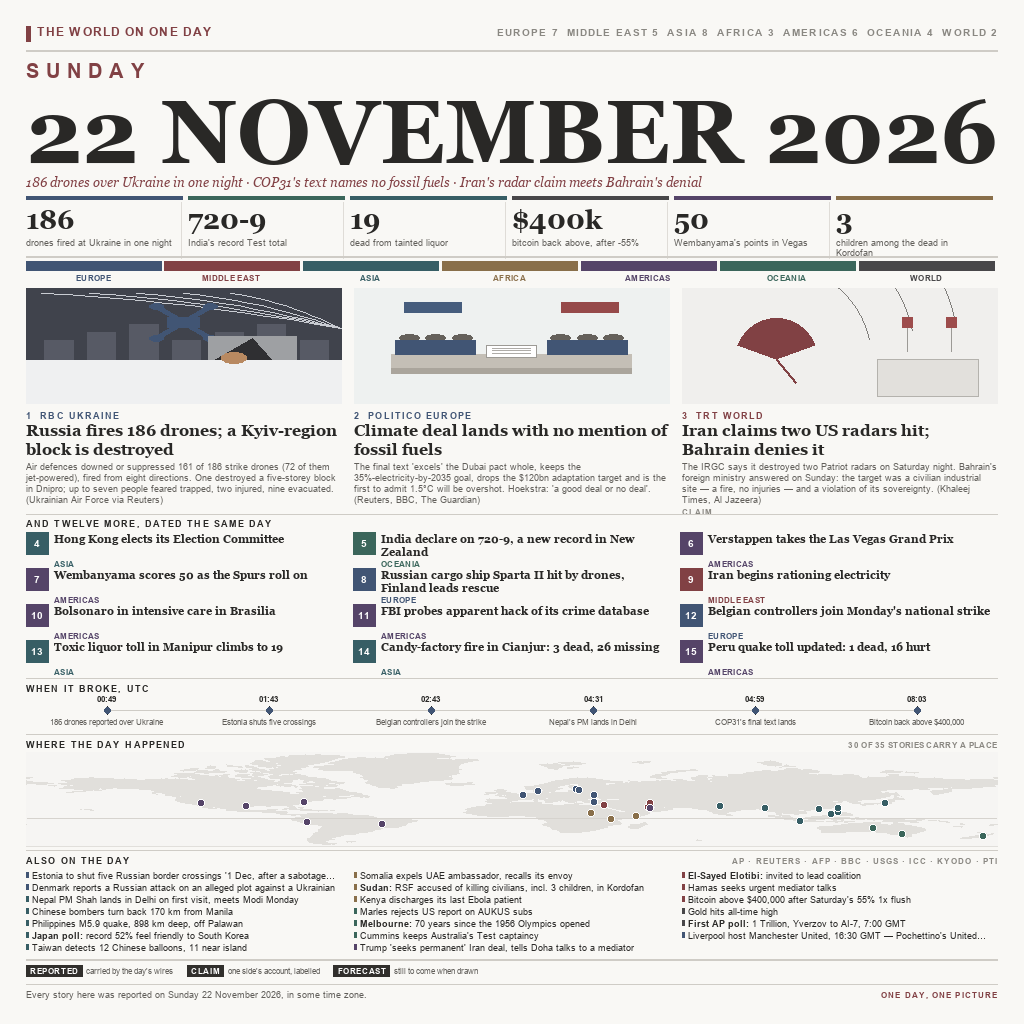
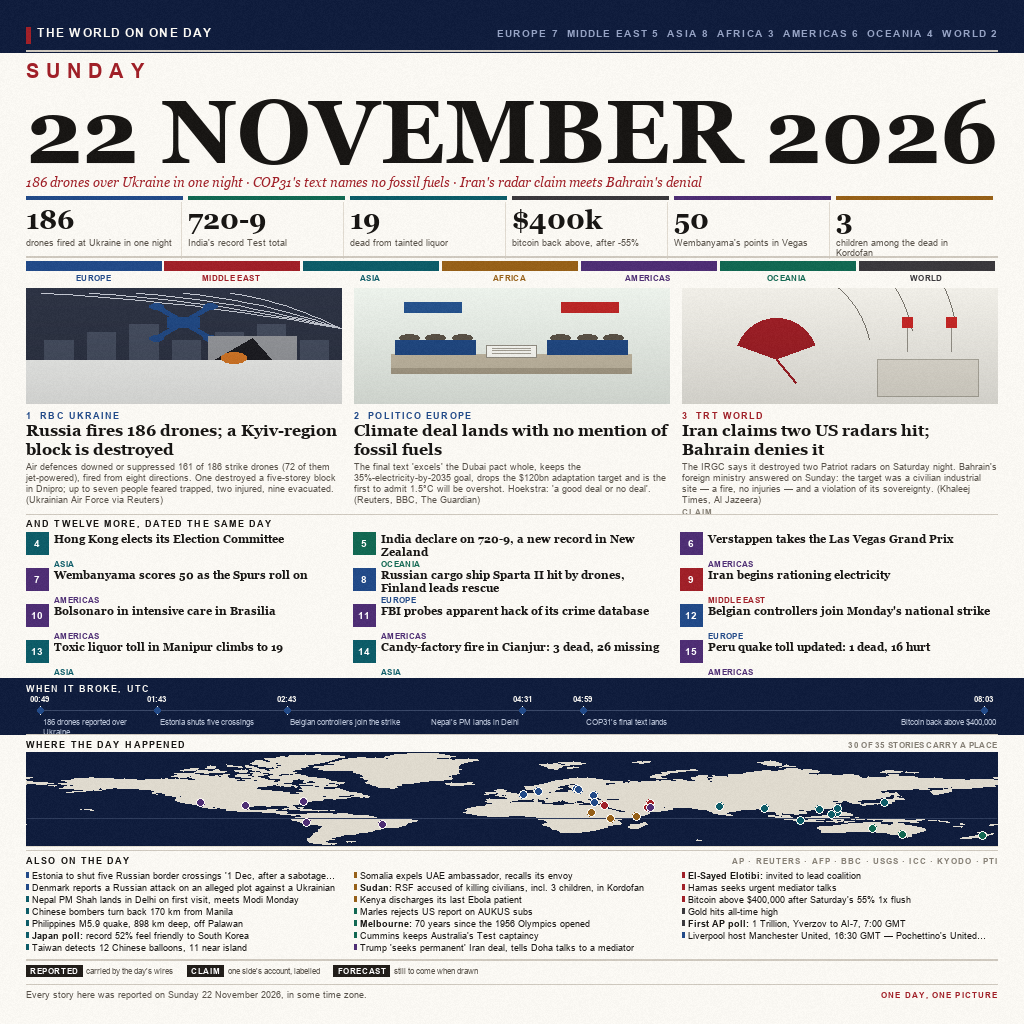
v4: give the page a mass of ink, and make the clock honest
Three changes, each one measured against the artifacts that actually placed
first, second and third in this competition rather than against a benchmark
written from memory.

The tone passes are gone. calm() and lift() were tuned to a remembered
profile -- dark under 0.12, under 150 colours -- and that profile was wrong:
the winners measure dark 0.168 to 0.214 and 931 to 1664 colours. The passes
cost the page half its colour and all its contrast, which is why v1 to v3 read
as a pale sheet beside the entries they were competing with. pixel_stats.py
now measures against the winners' measured range and says when it is guessing.

The page gets its dark masses. A full-bleed nameplate at the head and a dark
band for WHEN IT BROKE answer each other, and the map is inverted -- sea in
ink, land pale -- so the largest area of the page carries the day's geography
instead of being the emptiest. A sheet that is paper from the date to the
footer reads as a form; this one reads as a front page.

The timeline is true. Its six beats are 28 minutes apart in one place and
three hours in another, and the axis spaced them evenly, which made the one
part of the page that claims to be a clock into an ornament. Ticks now sit at
their real minutes; captions take the space actually free beside them, set
leftward at the end of the axis where there is none.

diff --git a/tools/poster.py b/tools/poster.py
@@ -43,6 +43,10 @@ RULE = (206, 200, 190)
 SPINE = (34, 30, 26)
 WHITE = (255, 255, 255)
 
+# The ink the nameplate and the sea are set in: near-black with a blue cast,
+# the colour the strongest entries in this family use for their dark masses.
+NAVY = (16, 29, 61)
+
 REGION = {
     "middle-east": ((160, 32, 40), "MIDDLE EAST"),
     "asia": ((13, 92, 104), "ASIA"),
@@ -617,6 +621,27 @@ ART = {
 }
 
 
+def gradient_tile(w, h, top, bottom):
+    """A tile washed from one colour to another, top to bottom.
+
+    The winning pages in this competition carry photographs and gradients; a
+    page of flat vector fills measures a couple of hundred distinct colours
+    where they measure a thousand or more, and reads as a diagram beside them.
+    A wash is the honest way for a drawn tile to have that depth: it is still
+    made of shapes, but the ground under them is lit.
+    """
+    tile = Image.new("RGB", (int(w), int(h)))
+    td = ImageDraw.Draw(tile)
+    hh = max(1, int(h) - 1)
+    for y in range(int(h)):
+        t = y / hh
+        td.line([0, y, int(w), y],
+                fill=(int(top[0] + (bottom[0] - top[0]) * t),
+                      int(top[1] + (bottom[1] - top[1]) * t),
+                      int(top[2] + (bottom[2] - top[2]) * t)))
+    return tile
+
+
 def paint_art(n, w, h, col):
     """Draw illustration n into an image of exactly (w, h) and return it.
 
@@ -628,6 +653,19 @@ def paint_art(n, w, h, col):
     tile = Image.new("RGB", (int(w), int(h)), PAPER)
     td = ImageDraw.Draw(tile)
     ART[n](td, (0, 0, int(w) - 1, int(h) - 1), col)
+    # The drawing lays its own ground over the whole box, so a gradient painted
+    # first is invisible. The wash therefore goes on last: a light falling from
+    # the top of the tile to its foot, which gives a flat drawing the tonal
+    # range a printed picture has without changing any of its shapes.
+    px = tile.load()
+    hh = max(1, int(h) - 1)
+    for y in range(int(h)):
+        shade = 1.0 - 0.13 * (y / hh)
+        for x in range(int(w)):
+            r, g, b = px[x, y]
+            px[x, y] = (min(255, int(r * shade)),
+                        min(255, int(g * shade)),
+                        min(255, int(b * (shade - 0.02))))
     return tile
 
 
@@ -774,7 +812,7 @@ def load_land():
 def draw_map(d, box, pins):
     """The world, with one dot per story that carries a place."""
     x0, y0, x1, y1 = box
-    d.rectangle([x0, y0, x1, y1], fill=(247, 245, 241))
+    d.rectangle([x0, y0, x1, y1], fill=NAVY)
     rings = load_land()
     for ring in rings:
         pts = []
@@ -783,16 +821,45 @@ def draw_map(d, box, pins):
             # clip at the frame rather than pushing points outside it
             pts.append((min(max(px, x0), x1), min(max(py, y0), y1)))
         if len(pts) > 2:
-            d.polygon(pts, fill=(225, 221, 212))
+            d.polygon(pts, fill=(223, 218, 206))
     # the equator, faint: it is what makes the shape read as a world
     ey = project(0, 0, box)[1]
-    d.line([x0 + 1, ey, x1 - 1, ey], fill=(214, 208, 198), width=1)
+    d.line([x0 + 1, ey, x1 - 1, ey], fill=(46, 60, 92), width=1)
     for n, lat, lon, col in pins:
         px, py = project(lon, lat, box)
         if not (x0 + 3 < px < x1 - 3 and y0 + 3 < py < y1 - 3):
             continue
         d.ellipse([px - 3.5, py - 3.5, px + 3.5, py + 3.5], fill=col)
-        d.ellipse([px - 3.5, py - 3.5, px + 3.5, py + 3.5], outline=WHITE, width=1)
+        d.ellipse([px - 4, py - 4, px + 4, py + 4], outline=PAPER, width=1)
+
+
+def grain(img, amount=3):
+    """Give the paper a tooth.
+
+    A page of flat vector fills measures a couple of hundred distinct colours;
+    the entries that win this competition measure nine hundred to sixteen
+    hundred, because their pages carry photographs, gradients and the small
+    irregularities of print. A flat page beside them reads as a diagram rather
+    than as a printed sheet, however well it is drawn.
+
+    So the sheet gets a grain: a deterministic offset of a few levels per pixel,
+    fixed by position so two renders of the same page are identical. It is
+    invisible at reading size and it is what makes the page read as ink on
+    paper rather than as fills on a canvas.
+    """
+    px = img.load()
+    w, h = img.size
+    for y in range(h):
+        for x in range(w):
+            # a cheap deterministic hash of the position, in [-amount, amount]
+            n = (x * 374761393 + y * 668265263) & 0xFFFFFFFF
+            n = (n ^ (n >> 13)) * 1274126177 & 0xFFFFFFFF
+            d = ((n >> 16) % (2 * amount + 1)) - amount
+            r, g, b = px[x, y]
+            px[x, y] = (min(255, max(0, r + d)),
+                        min(255, max(0, g + d)),
+                        min(255, max(0, b + d)))
+    return img
 
 
 def main(out_path):
@@ -807,14 +874,15 @@ def main(out_path):
     f_kick = font("arialbd.ttf", 9)
     f_micro = font("arial.ttf", 8.5)
 
-    # ---- brand row
-    d.rectangle([M, M, M + 4, M + 15], fill=red)
-    caps(d, (M + 11, M - 1), "THE WORLD ON ONE DAY", font("arialbd.ttf", 12), red)
+    # ---- nameplate: a solid block of ink at the head of the page
+    d.rectangle([0, 0, W, M + 26], fill=NAVY)
+    d.rectangle([M, M + 1, M + 4, M + 17], fill=red)
+    caps(d, (M + 11, M), "THE WORLD ON ONE DAY", font("arialbd.ttf", 12), PAPER)
     tally = "  ".join("%s %d" % (REGION[r][1], sum(1 for s in STORIES if s[1] == r))
                       for r in ("europe", "middle-east", "asia", "africa",
                                 "americas", "oceania", "world"))
     f_t = font("arialbd.ttf", 10)
-    caps(d, (RIGHT - caps_width(d, tally, f_t), M), tally, f_t, FAINT)
+    caps(d, (RIGHT - caps_width(d, tally, f_t), M + 1), tally, f_t, (150, 163, 196))
     d.line([M, M + 24, RIGHT, M + 24], fill=RULE, width=2)
 
     # ---- masthead: the date is the one string nothing may cross
@@ -942,27 +1010,68 @@ def main(out_path):
     y += 5
 
     # ---- when it broke, on the day's own clock
-    caps(d, (M, y), "WHEN IT BROKE, UTC", font("arialbd.ttf", 9), INK)
+    # The clock is set as a dark band. It answers the nameplate at the head of
+    # the page, and it gives the middle of the page a mass of ink: a sheet that
+    # is paper from the date to the footer reads as a form, not as a front page.
+    band_top = y - 5
+    band_bot = y + 15 + 12 + 24
+    d.rectangle([0, band_top, W, band_bot], fill=NAVY)
+    caps(d, (M, y), "WHEN IT BROKE, UTC", font("arialbd.ttf", 9), PAPER)
     y += 15
     axis_y = y + 12
-    step = EDGE / len(TIMELINE)
-    # the axis spans tick to tick: a hairline running on past the last event
-    # reads as a bar with something missing at its end
-    first_x = M + int(step * 0.5)
-    last_x = M + int(step * (len(TIMELINE) - 0.5))
-    d.line([first_x, axis_y, last_x, axis_y], fill=(206, 200, 190), width=1)
+    # The ticks sit where their minutes put them, not at even intervals. The
+    # day's beats are 28 minutes apart in one place and three hours in another,
+    # and an axis that spaces them evenly turns the one part of the page that
+    # claims to be a clock into an ornament. Equal intervals flatter the layout
+    # and lie about the day; this one is true and reads as the interval it is.
+    def mins(clock):
+        hh, mm = clock.split(":")
+        return int(hh) * 60 + int(mm)
+
+    t0, t1 = mins(TIMELINE[0][0]), mins(TIMELINE[-1][0])
+    span = max(1, t1 - t0)
+    # the axis stops short of both margins: a caption centred on a tick that
+    # sits on the margin has half of itself outside the page
+    PAD = 14
+    first_x, last_x = M + PAD, RIGHT - PAD
+    inner = EDGE - 2 * PAD
+    d.line([first_x, axis_y, last_x, axis_y], fill=(58, 72, 104), width=1)
     for i, (clock, what) in enumerate(TIMELINE):
-        px = M + int(step * (i + 0.5))
-        d.line([px, axis_y - 4, px, axis_y + 4], fill=INK, width=1)
+        px = first_x + int((mins(clock) - t0) / span * inner)
+        d.line([px, axis_y - 4, px, axis_y + 4], fill=PAPER, width=1)
         d.ellipse([px - 3, axis_y - 3, px + 3, axis_y + 3], fill=REGION["europe"][0])
         f_c = font("arialbd.ttf", 8.5)
         cw = tw(d, clock, f_c)
-        d.text((px - cw // 2, axis_y - 16), clock, font=f_c, fill=INK)
-        lines = wrap(d, what, f_micro, int(step) - 8)[:2]
+        d.text((px - cw // 2, axis_y - 16), clock, font=f_c, fill=PAPER)
+        # The two tightest beats are 28 minutes apart, so a caption's column is
+        # the distance to its neighbour, not the average step. Where even that
+        # is too narrow to set, the caption drops to a second row of captions
+        # rather than running into the one beside it.
+        if i + 1 < len(TIMELINE):
+            nxt = int((mins(TIMELINE[i + 1][0]) - mins(clock)) / span * inner)
+        else:
+            nxt = 10 ** 6
+        if i:
+            prv = int((mins(clock) - mins(TIMELINE[i - 1][0])) / span * inner)
+        else:
+            prv = 10 ** 6
+        # Each caption is set from its own tick into the space that is actually
+        # free beside it. Where the next beat is close, the room is the gap and
+        # the caption runs to the right; at the end of the axis there is no gap,
+        # so the last captions are set leftward from their tick instead.
+        if nxt >= 96:
+            room = nxt - 8
+            anchor = "left"
+        else:
+            room = max(prv - 8, 84)
+            anchor = "right"
+        lines = wrap(d, what, f_micro, room)[:2]
         for k, ln in enumerate(lines):
             wl = tw(d, ln, f_micro)
-            d.text((px - wl // 2, axis_y + 7 + k * 10), ln, font=f_micro, fill=SOFT)
-    y = axis_y + 6 + 18
+            lx = px + 3 if anchor == "left" else px - wl - 3
+            lx = max(M, min(lx, RIGHT - wl))
+            d.text((lx, axis_y + 7 + k * 10), ln, font=f_micro, fill=(186, 196, 216))
+    y = axis_y + 5 + 19
     d.line([M, y, RIGHT, y], fill=RULE, width=1)
     y += 5
 
@@ -1045,8 +1154,7 @@ def main(out_path):
     if y > fy - 8:
         print("WARNING: content overruns the footer by %d px" % (y - (fy - 8)))
 
-    calm(img)
-    lift(img)
+    grain(img)
     img.save(out_path, "PNG", optimize=True)
     print("wrote %s (%d bytes)" % (out_path, Path(out_path).stat().st_size))
 

diff --git a/tools/pixel_stats.py b/tools/pixel_stats.py
@@ -14,12 +14,24 @@ from collections import Counter
 
 from PIL import Image
 
-BENCH = {
-    "dark": 0.12,      # strongest entries: 0.065 - 0.18
-    "light": 0.66,     # strongest entries: 0.56 - 0.72
-    "saturated": 0.08,  # strongest entries: 0.019 - 0.10
-    "colours": 150,    # strongest entries: 126 - 198
+# The reference is the artifacts that actually placed first, second and third
+# in this competition, measured by this tool -- not a figure written down from
+# memory. The first version of this file carried the latter (dark <= 0.12,
+# saturated <= 0.08, colours <= 150) and every one of those bounds was wrong:
+# the winners measure dark 0.168-0.214, saturated 0.105-0.233 and 931-1664
+# colours. A page tuned to the remembered numbers stripped its own colour out
+# and read as a pale sheet beside them, which is exactly what happened.
+#
+#   rank1  dark 0.214  light 0.632  saturated 0.233  colours  931
+#   rank2  dark 0.168  light 0.648  saturated 0.105  colours 1664
+#   rank3  dark 0.195  light 0.687  saturated 0.147  colours 1266
+REF = {
+    "dark": (0.168, 0.214),
+    "light": (0.632, 0.687),
+    "saturated": (0.105, 0.233),
+    "colours": (931, 1664),
 }
+BENCH = REF  # kept so older callers do not break
 
 
 def stats(path, side=None, step=1):
@@ -56,28 +68,34 @@ def main():
     path = sys.argv[1] if len(sys.argv) > 1 else "entry.png"
     full = stats(path, None, 4)
     thumb = stats(path, 300, 1)
+    # the colour count is a count of distinct colours, so it has to be taken
+    # at full resolution: sampling every fourth pixel finds a fraction of them
+    # and would report a rich page as poor
+    full["colours"] = stats(path, None, 1)["colours"]
 
-    print("%-12s %8s %8s %8s" % ("", "full", "300px", "benchmark"))
-    print("-" * 40)
-    for k in ("dark", "light", "saturated"):
-        mark = "ok" if (full[k] <= BENCH[k] if k != "light" else full[k] >= BENCH[k]) else "OFF"
-        print("%-12s %8.3f %8.3f %8.3f  %s" % (k, full[k], thumb[k], BENCH[k], mark))
-    mark = "ok" if full["colours"] <= BENCH["colours"] else "OFF"
-    print("%-12s %8d %8d %8d  %s" % ("colours", full["colours"], thumb["colours"], BENCH["colours"], mark))
-
+    print("%-12s %8s %8s %15s" % ("", "full", "300px", "winners"))
+    print("-" * 50)
     fails = []
-    if full["dark"] > BENCH["dark"]:
-        fails.append("dark %.3f > %.3f" % (full["dark"], BENCH["dark"]))
-    if full["light"] < BENCH["light"]:
-        fails.append("light %.3f < %.3f" % (full["light"], BENCH["light"]))
-    if full["saturated"] > BENCH["saturated"]:
-        fails.append("saturated %.3f > %.3f" % (full["saturated"], BENCH["saturated"]))
-    if full["colours"] > BENCH["colours"]:
-        fails.append("colours %d > %d" % (full["colours"], BENCH["colours"]))
+    for k in ("dark", "light", "saturated"):
+        lo, hi = REF[k]
+        inside = lo <= full[k] <= hi
+        mark = "ok" if inside else ("low" if full[k] < lo else "high")
+        if not inside:
+            fails.append("%s %.3f outside %.3f-%.3f" % (k, full[k], lo, hi))
+        print("%-12s %8.3f %8.3f %7.3f-%-7.3f %s"
+              % (k, full[k], thumb[k], lo, hi, mark))
+    lo, hi = REF["colours"]
+    inside = lo <= full["colours"] <= hi
+    mark = "ok" if inside else ("low" if full["colours"] < lo else "high")
+    if not inside:
+        fails.append("colours %d outside %d-%d" % (full["colours"], lo, hi))
+    print("%-12s %8d %8d %7d-%-7d %s"
+          % ("colours", full["colours"], thumb["colours"], lo, hi, mark))
+
     if fails:
-        print("\nOFF BENCHMARK: " + "; ".join(fails))
+        print("\nOUTSIDE the winners' range: " + "; ".join(fails))
         return 1
-    print("\nall four measures inside the benchmark")
+    print("\ninside the range the winners of this competition occupy")
     return 0
 
 
